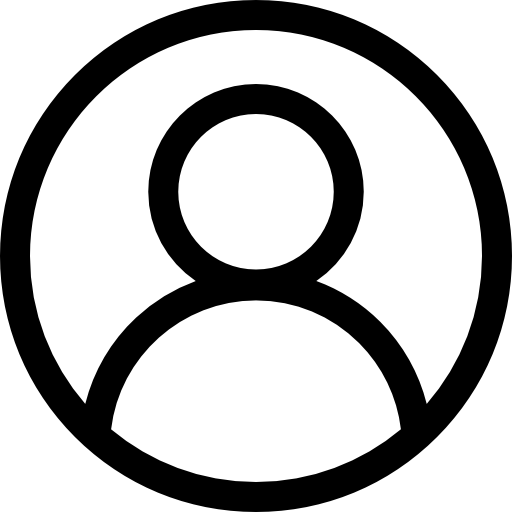
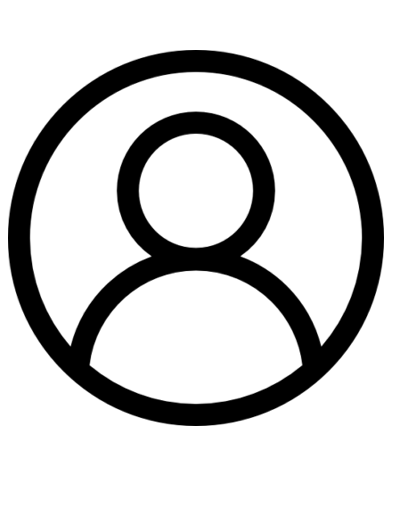
implementado envio dos dados adicionais e fotos via api; adicionado biblioteca toastr para mensagens informativas ao usuário

diff --git a/src/app/components/detalhes-pessoa/components/dialog-informacoes/dialog-informacoes.component.ts b/src/app/components/detalhes-pessoa/components/dialog-informacoes/dialog-informacoes.component.ts
@@ -5,13 +5,19 @@ import {
   UntypedFormGroup,
 } from '@angular/forms';
 import { MatButtonModule } from '@angular/material/button';
-import { MatDialogModule, MatDialogRef } from '@angular/material/dialog';
+import {
+  MAT_DIALOG_DATA,
+  MatDialogModule,
+  MatDialogRef,
+} from '@angular/material/dialog';
 import { MatFormFieldModule } from '@angular/material/form-field';
 import { MatIconModule } from '@angular/material/icon';
 import { MatInputModule } from '@angular/material/input';
 import { MatTooltipModule } from '@angular/material/tooltip';
 import { NgxMaskDirective, provideNgxMask } from 'ngx-mask';
+import { ToastrService } from 'ngx-toastr';
 import { ArquivoFoto } from '../../../../models/models.types';
+import { AbitusService } from '../../../../services/abitus.service';
 import { AnexarFotosComponent } from '../anexar-fotos/anexar-fotos.component';
 
 @Component({
@@ -33,8 +39,11 @@ import { AnexarFotosComponent } from '../anexar-fotos/anexar-fotos.component';
   providers: [provideNgxMask()],
 })
 export class DialogInformacoesComponent {
-  private readonly dialogRef = inject(MatDialogRef<DialogInformacoesComponent>);
   private readonly _formBuilder = inject(FormBuilder);
+  private readonly toastrService = inject(ToastrService);
+  private readonly _abitusService = inject(AbitusService);
+  private readonly dialogRef = inject(MatDialogRef<DialogInformacoesComponent>);
+  private readonly data = inject(MAT_DIALOG_DATA);
 
   formInfo!: UntypedFormGroup;
   listaFotos: ArquivoFoto[] = [];
@@ -45,12 +54,14 @@ export class DialogInformacoesComponent {
 
   criaFormulario() {
     this.formInfo = this._formBuilder.group({
-      informacao: [null],
+      informacoes: [null],
       descricao: [null],
       data: [null],
       ocoId: [null],
       fotos: [],
     });
+
+    this.formInfo.patchValue(this.data);
   }
 
   adicionarFotos(arquivos: File[]) {
@@ -81,6 +92,41 @@ export class DialogInformacoesComponent {
   }
 
   enviar() {
-    //
+    if (!this.formInfo.get('informacoes')?.value) {
+      this.toastrService.error(
+        'Campo Informações precisa ser diferente de vazio.'
+      );
+      return;
+    }
+
+    if (!this.formInfo.get('data')?.value) {
+      this.toastrService.error('Campo Data precisa ser diferente de vazio.');
+      return;
+    }
+
+    if (!this.formInfo.get('descricao')?.value) {
+      this.toastrService.error(
+        'Campo Descrição precisa ser diferente de vazio.'
+      );
+      return;
+    }
+
+    this._abitusService
+      .enviarInformacoes(this.formInfo.getRawValue(), this.listaFotos)
+      .subscribe({
+        next: () => {
+          this.toastrService.success(
+            'Informações adicionais enviadas com sucesso.'
+          );
+        },
+        error: (erro) => {
+          this.toastrService.error(
+            `Erro ao enviar as informações: '${erro.message}'`
+          );
+        },
+        complete: () => {
+          this.dialogRef.close();
+        },
+      });
   }
 }

diff --git a/src/app/services/abitus.service.ts b/src/app/services/abitus.service.ts
@@ -1,7 +1,13 @@
 import { HttpClient, HttpParams } from '@angular/common/http';
 import { inject, Injectable } from '@angular/core';
 import { Observable } from 'rxjs';
-import { Filtro, Pessoa, RespostaPessoa } from '../models/models.types';
+import {
+  ArquivoFoto,
+  Filtro,
+  InformacoesEnvio,
+  Pessoa,
+  RespostaPessoa,
+} from '../models/models.types';
 
 @Injectable({
   providedIn: 'root',
@@ -44,5 +50,32 @@ export class AbitusService {
 
   buscarPessoas(idPessoa: string): Observable<Pessoa> {
     return this._http.get<Pessoa>(`${this._url}/pessoas/${idPessoa}`);
+  }
+
+  enviarInformacoes(
+    formDados: any,
+    fotos: ArquivoFoto[]
+  ): Observable<InformacoesEnvio> {
+    const formData = new FormData();
+
+    fotos.forEach((foto) => {
+      formData.append('files', foto.file, foto.file.name);
+    });
+
+    const params = new HttpParams()
+      .set('informacao', formDados.informacoes)
+      .set('descricao', formDados.descricao)
+      .set('data', formDados.data.split('/').reverse().join('-'))
+      .set('ocoId', formDados.ocoId);
+
+    return this._http.post<InformacoesEnvio>(
+      `${this._url}/ocorrencias/informacoes-desaparecido`,
+      formData,
+      {
+        params,
+        reportProgress: true,
+        responseType: 'json',
+      }
+    );
   }
 }

diff --git a/src/app/components/detalhes-pessoa/components/dialog-informacoes/dialog-informacoes.component.html b/src/app/components/detalhes-pessoa/components/dialog-informacoes/dialog-informacoes.component.html
@@ -14,9 +14,9 @@
     class="space-y-5 w-full sm:min-w-96 lg:min-w-[40rem]"
   >
     <div class="flex flex-col">
-      <mat-label>Informações:</mat-label>
+      <mat-label>Informações sobre o desaparecido:</mat-label>
 
-      <input matInput type="text" formControlName="informacao" />
+      <input matInput type="text" formControlName="informacoes" />
     </div>
 
     <div class="flex flex-col w-40">
@@ -33,7 +33,7 @@
     </div>
 
     <div class="flex flex-col">
-      <mat-label>Descrição:</mat-label>
+      <mat-label>Descrição das fotos:</mat-label>
 
       <input matInput type="text" formControlName="descricao" />
     </div>

diff --git a/src/app/app.config.ts b/src/app/app.config.ts
@@ -4,6 +4,7 @@ import { provideRouter } from '@angular/router';
 import { provideHttpClient } from '@angular/common/http';
 import { provideAnimationsAsync } from '@angular/platform-browser/animations/async';
 import { provideEnvironmentNgxMask } from 'ngx-mask';
+import { provideToastr } from 'ngx-toastr';
 import { routes } from './app.routes';
 
 export const appConfig: ApplicationConfig = {
@@ -12,5 +13,6 @@ export const appConfig: ApplicationConfig = {
     provideAnimationsAsync(),
     provideHttpClient(),
     provideEnvironmentNgxMask(),
+    provideToastr(),
   ],
 };

diff --git a/src/app/components/detalhes-pessoa/detalhes-pessoa.component.html b/src/app/components/detalhes-pessoa/detalhes-pessoa.component.html
@@ -1,4 +1,6 @@
-<div class="flex flex-col items-center sm:flex-row sm:items-start">
+<div
+  class="flex flex-col items-center sm:flex-row sm:items-start mx-auto lg:justify-center"
+>
   <div class="p-4">
     <img
       [src]="dadosPessoa?.urlFoto"
@@ -26,7 +28,7 @@
       {{ situacaoPessoa }}
     </div>
 
-    <div class="uppercase font-normal space-y-3">
+    <div class="uppercase font-normal space-y-3 w-full">
       <div class="mt-2 mb-2"></div>
 
       <div

diff --git a/src/styles.scss b/src/styles.scss
@@ -1,5 +1,15 @@
+@import "ngx-toastr/toastr";
+
 @tailwind base;
 @tailwind components;
 @tailwind utilities;
-html, body { height: 100%; }
-body { margin: 0; font-family: Roboto, "Helvetica Neue", sans-serif; }
+
+html,
+body {
+  height: 100%;
+}
+
+body {
+  margin: 0;
+  font-family: Roboto, "Helvetica Neue", sans-serif;
+}

diff --git a/src/app/models/models.types.ts b/src/app/models/models.types.ts
@@ -77,3 +77,15 @@ export interface ArquivoFoto {
   file: File;
   url: string;
 }
+
+export interface InformacoesEnvio {
+  id: number;
+  ocoId: number;
+  informacao: string;
+  data: string;
+  fotos: Foto[];
+}
+
+export interface Foto {
+  item: string;
+}

diff --git a/src/app/components/detalhes-pessoa/detalhes-pessoa.component.ts b/src/app/components/detalhes-pessoa/detalhes-pessoa.component.ts
@@ -96,6 +96,7 @@ export class DetalhesPessoaComponent {
 
   incluirInformacoes() {
     this.dialog.open(DialogInformacoesComponent, {
+      data: { ocoId: this.dadosPessoa.ultimaOcorrencia.ocoId },
       disableClose: true,
     });
   }
